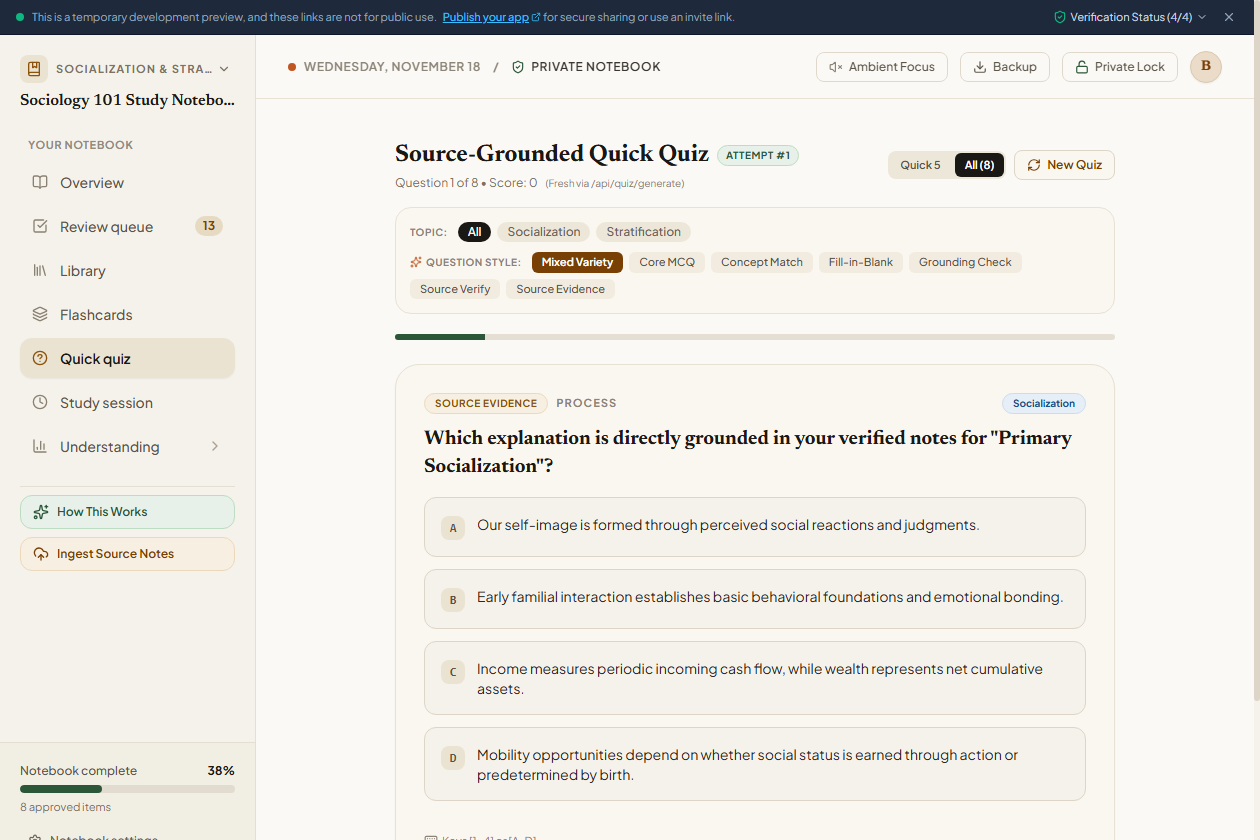
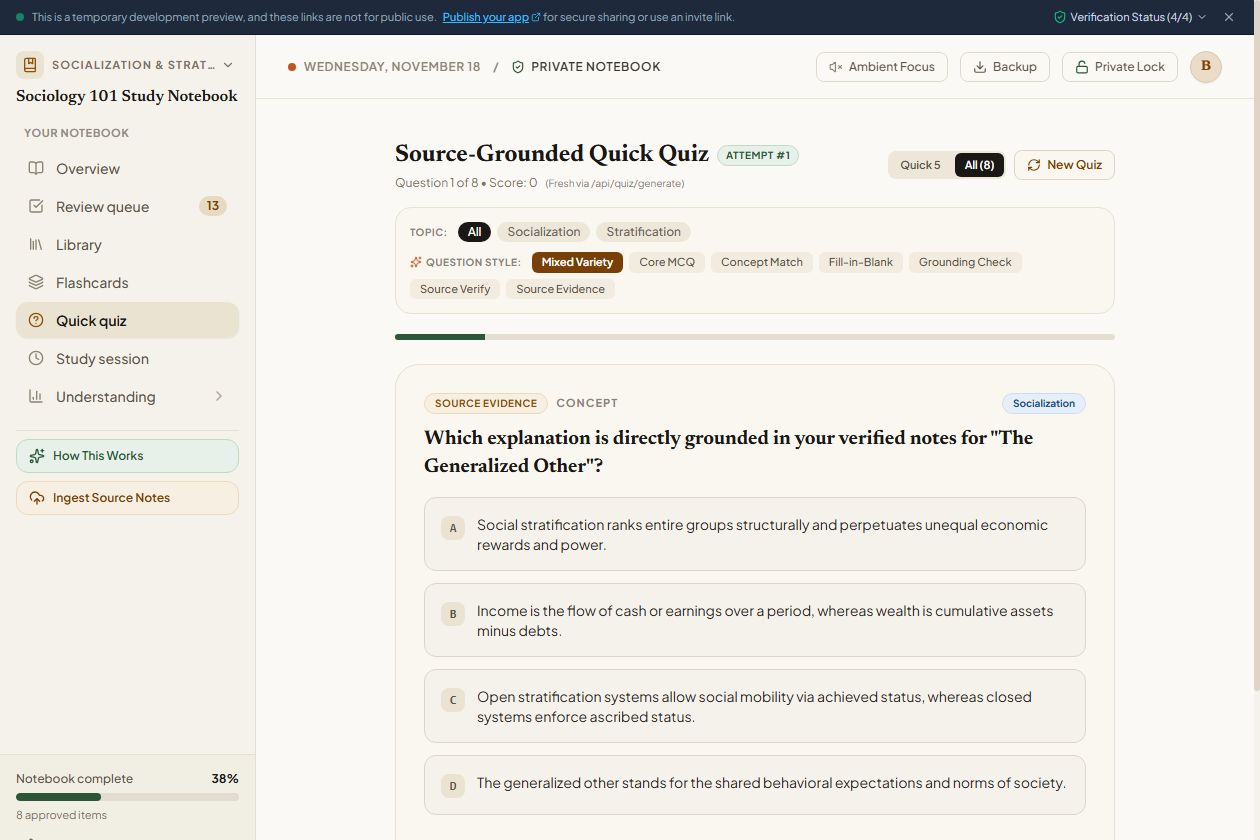
docs: embed full app screenshots and artwork gallery in README; add Library, Flashcards, and Session captures

diff --git a/README.md b/README.md
@@ -6,6 +6,26 @@ An implementation of the **Living Study Guide** mission, featuring a human-in-th
 
 ---
 
+## 🖼 App Previews & Illustrations
+
+| Understanding Dashboard | Overview Workspace |
+| :---: | :---: |
+| ![Understanding Dashboard](./submission/cover-dashboard-understanding.png) | ![Overview Study Guide](./submission/overview-study-guide.png) |
+
+| Human-in-the-Loop Review Queue | Dynamic Quick Quiz |
+| :---: | :---: |
+| ![Review Queue](./submission/review-queue-hitl.png) | ![Quick Quiz](./submission/quick-quiz-dynamic.png) |
+
+| Approved Library | Recall Flashcards | Focused Study Session |
+| :---: | :---: | :---: |
+| ![Library](./submission/library-approved-cards.png) | ![Flashcards](./submission/flashcards-recall.png) | ![Study Session](./submission/study-session-timer.png) |
+
+| Study Desk Artwork | HITL Verification Seal |
+| :---: | :---: |
+| ![Study Hero Illustration](./public/images/study-hero.jpg) | ![HITL Verification Illustration](./public/images/hitl-verify.jpg) |
+
+---
+
 ## 🏛 Core Philosophy: Nothing Saves Without A Check
 
 ```
